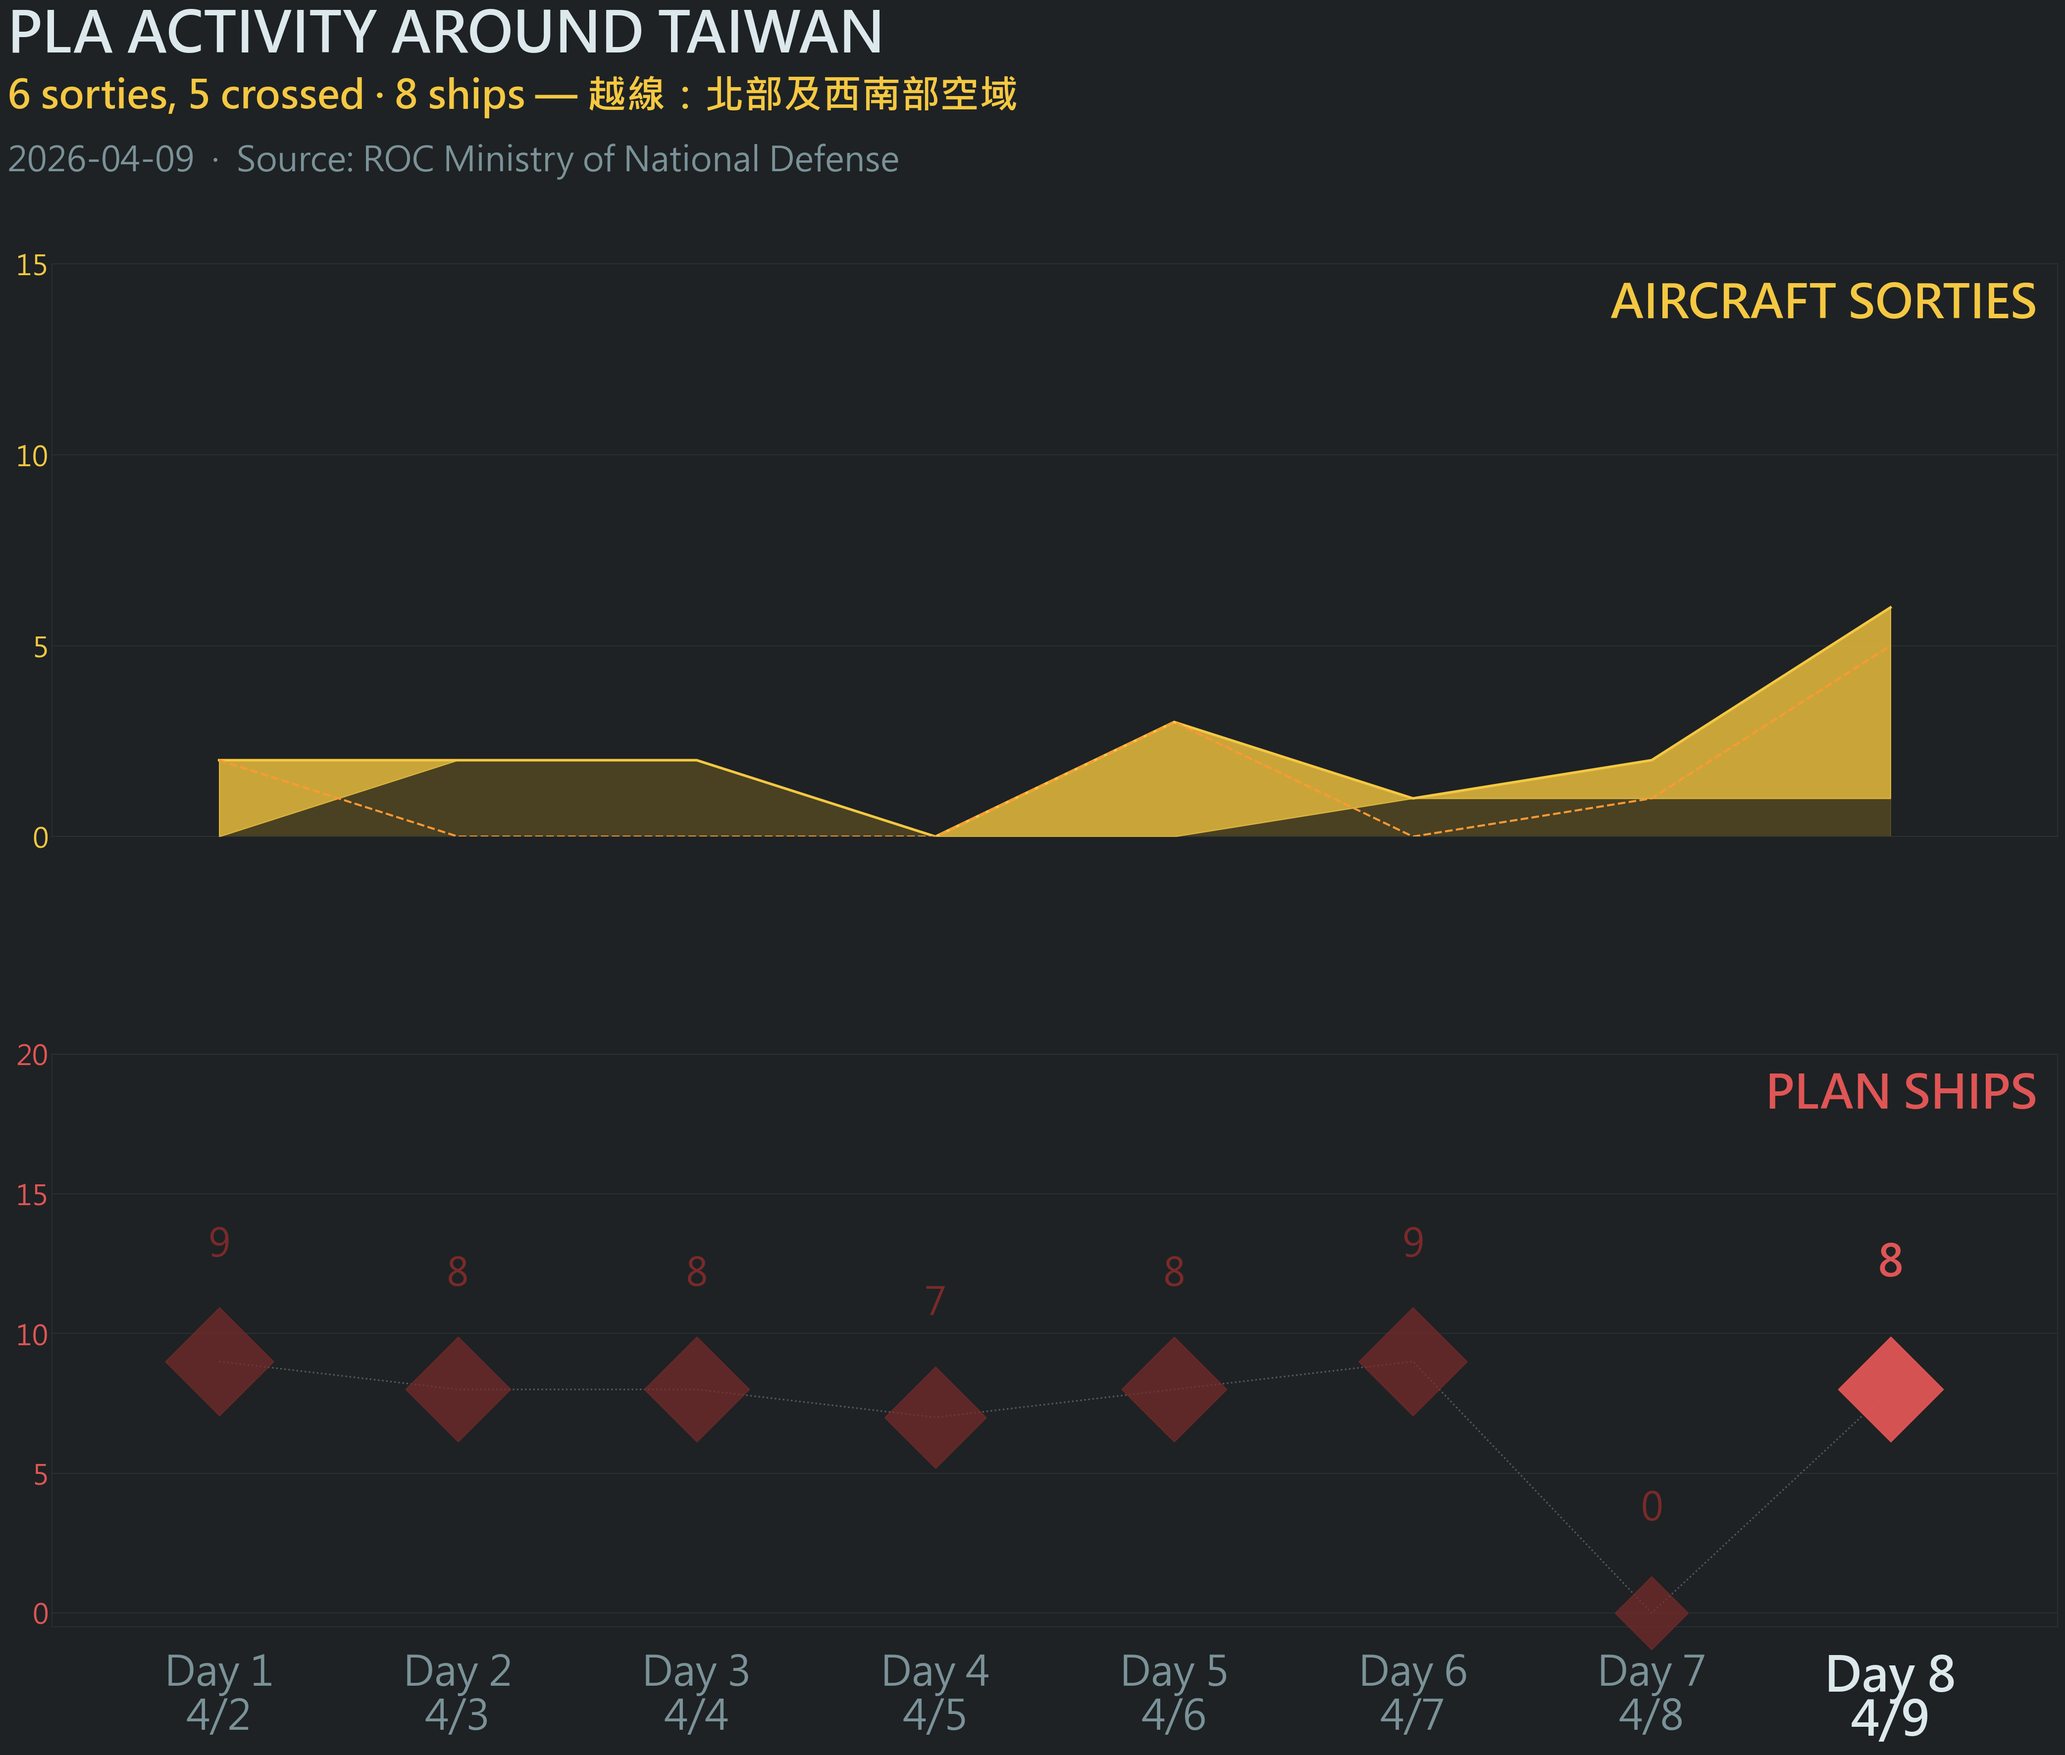
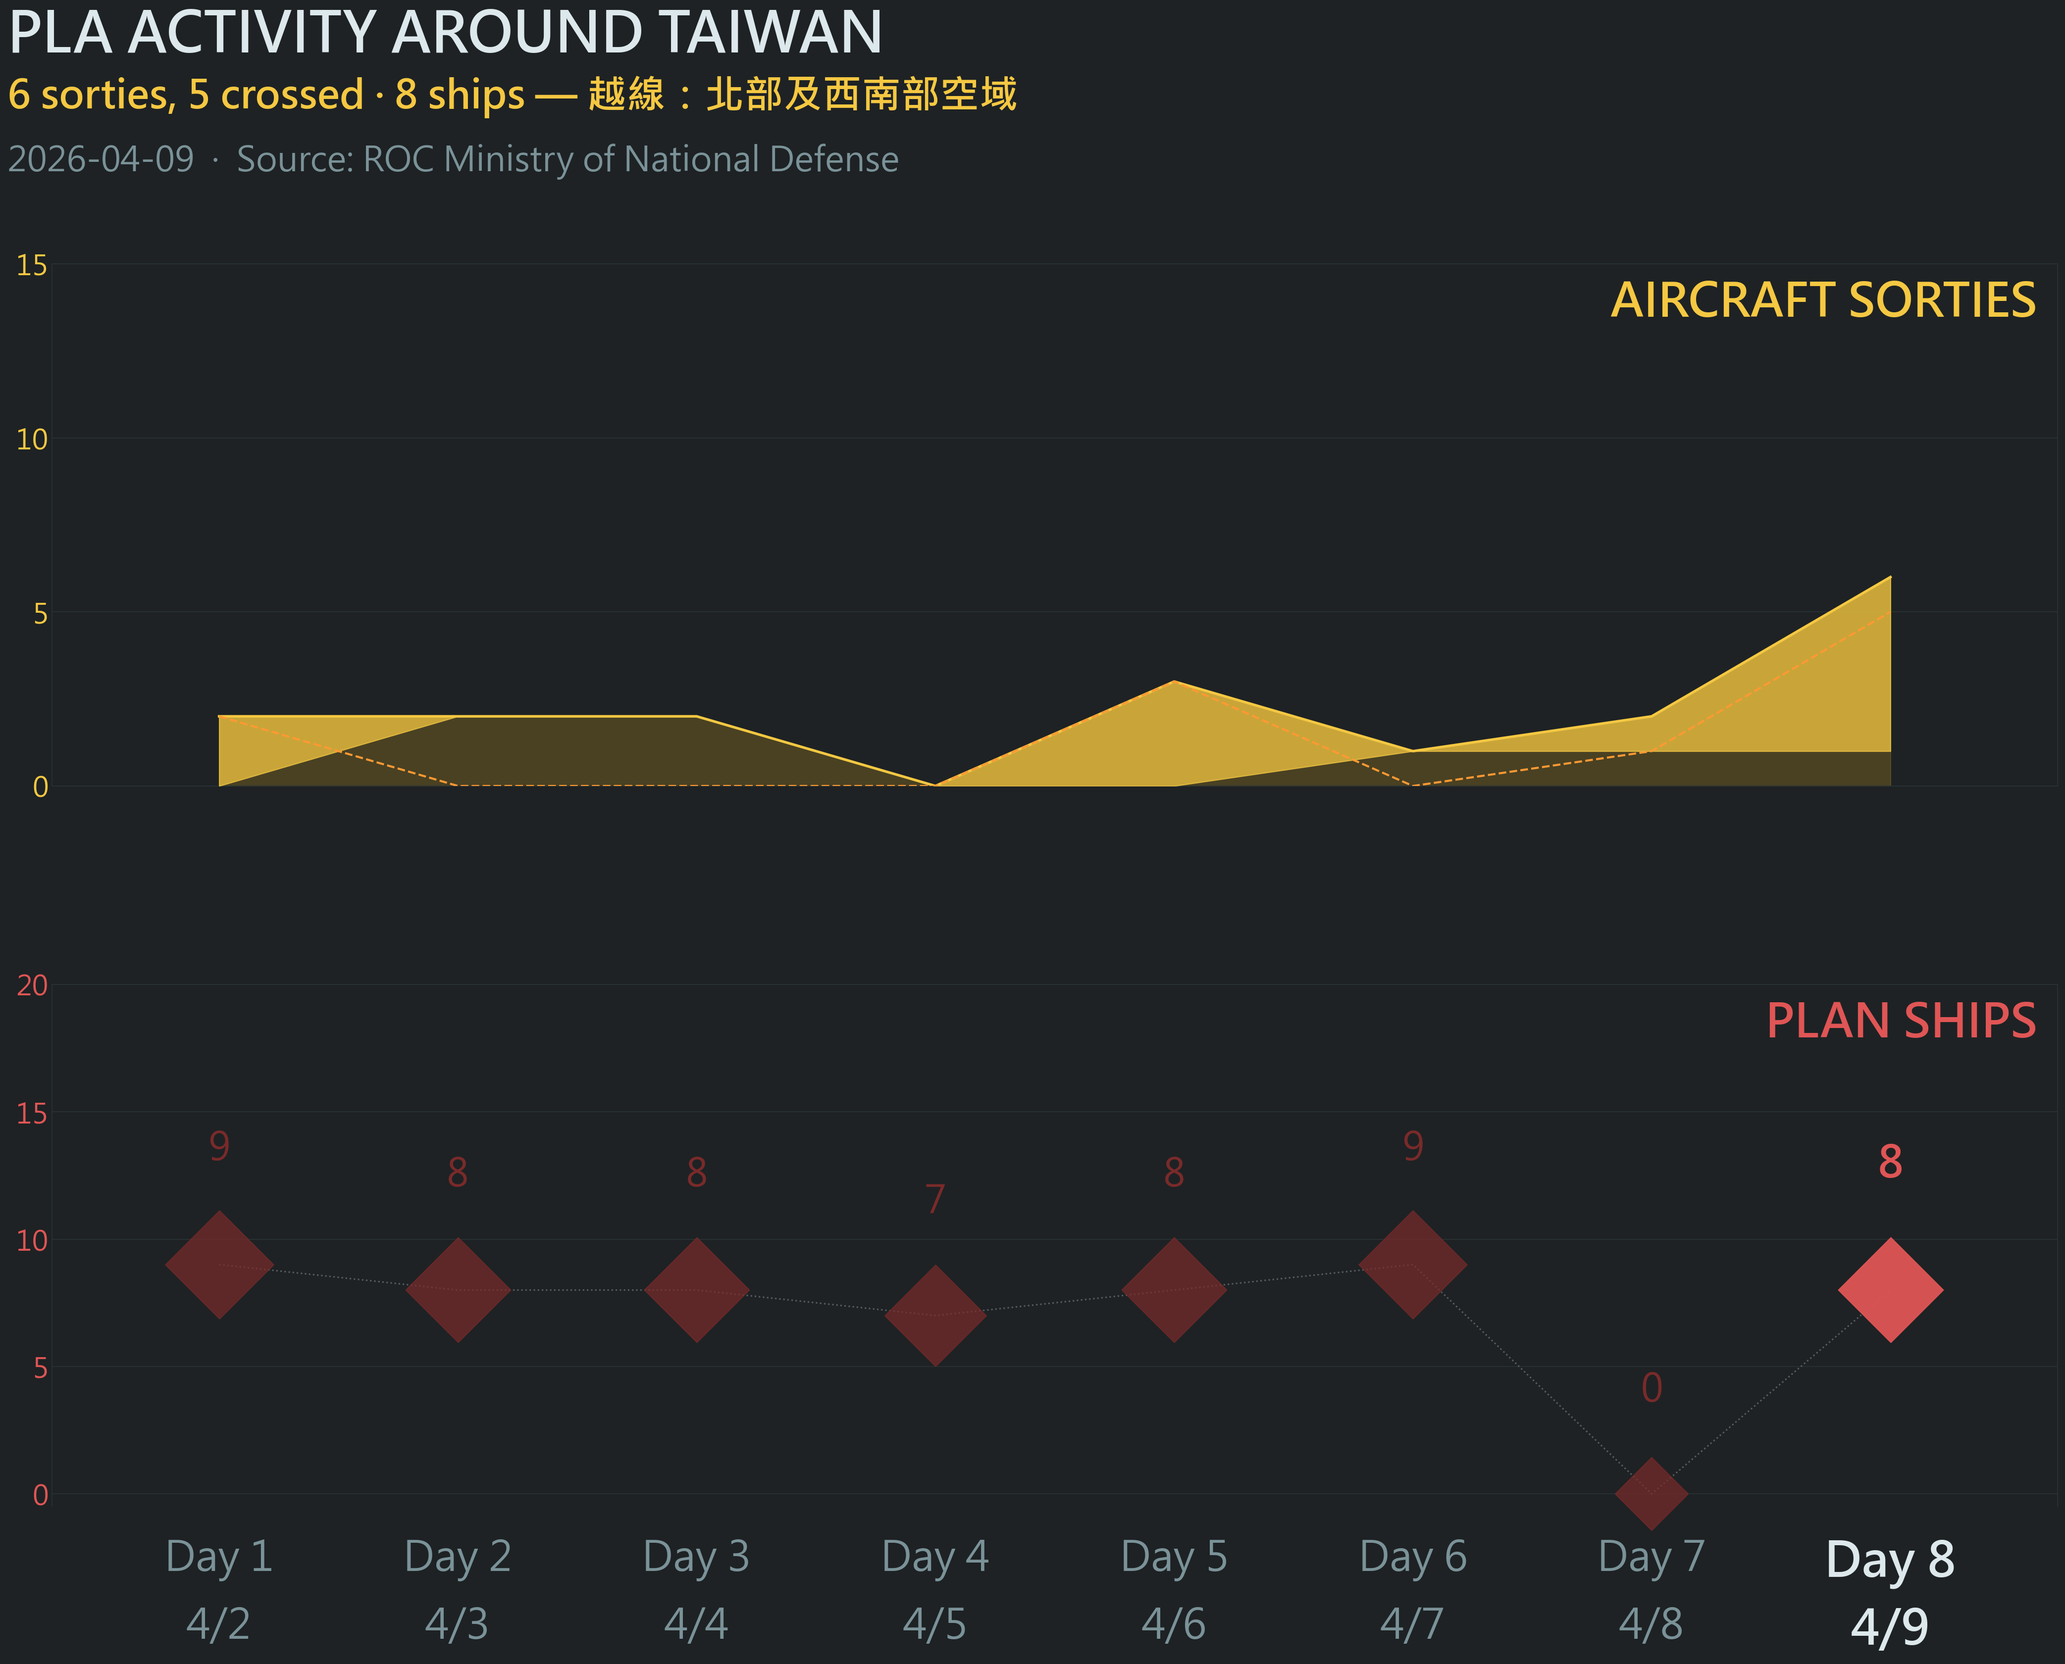
fix: streak right-align labels, adaptive yticks, larger title; split panel Day/date spacing, no double line

diff --git a/scripts/chart_daily.py b/scripts/chart_daily.py
@@ -90,6 +90,16 @@ def ceil5(x):
     return int(np.ceil(max(x, 1) / 5) * 5)
 
 
+def _ystep(top):
+    if top <= 10:   return 2
+    elif top <= 30: return 5
+    else:           return 10
+
+
+def _ceil_s(x, s):
+    return int(np.ceil(max(x, s) / s) * s)
+
+
 def make_obs_text(row):
     """auto-generate observation sentence"""
     sorties = int(row['aircraft_total']) if pd.notna(row['aircraft_total']) else 0
@@ -148,20 +158,11 @@ def make_split_panel_chart(df, today_date=None, obs_text=None, out_path=None):
     date_labels = [f"{pd.to_datetime(r['date']).month}/{pd.to_datetime(r['date']).day}"
                    for _, r in df_plot.iterrows()]
 
-    # ── 自適應 y 軸刻度 ──
-    def _ystep(top):
-        if top <= 10:   return 2
-        elif top <= 30: return 5
-        else:           return 10
-
-    def _ceil_s(x, s):
-        return int(np.ceil(max(x, s) / s) * s)
-
     # ── 圖形建立（去掉 ylabel 後 left 縮小）──
     fig = plt.figure(figsize=(30, 27), facecolor=BG)
     gs  = gridspec.GridSpec(2, 1,
                             left=0.06, right=0.96,
-                            top=0.84,  bottom=0.16,
+                            top=0.84,  bottom=0.22,
                             hspace=0.38)
     ax_ac = fig.add_subplot(gs[0])
     ax_sh = fig.add_subplot(gs[1])
@@ -200,9 +201,10 @@ def make_split_panel_chart(df, today_date=None, obs_text=None, out_path=None):
     ylim_sh_raw = max(sh_max * 2.2, sh_max + 5, 5)
     step_sh     = _ystep(ylim_sh_raw)
     ylim_sh_top = _ceil_s(ylim_sh_raw, step_sh)
-    ax_sh.set_ylim(-0.5, ylim_sh_top)   # -0.5 讓 y=0 的菱形不貼軸（修改4）
+    ax_sh.set_ylim(-0.5, ylim_sh_top)   # -0.5 讓 y=0 的菱形不貼軸
     ax_sh.set_yticks(range(0, ylim_sh_top + 1, step_sh))
     ax_sh.tick_params(axis='y', colors=SH_BRIGHT, labelsize=27)
+    ax_sh.spines['bottom'].set_visible(False)  # 隱藏底部 spine，避免與 y=0 grid 重疊
 
     # connector dotted line
     ax_sh.plot(xs, sh_vals.tolist(), ':', color='#555c62', linewidth=1.5, zorder=2)
@@ -242,11 +244,10 @@ def make_split_panel_chart(df, today_date=None, obs_text=None, out_path=None):
         fc  = TXTDARK if is_today else TXTSUB
         fw  = 'bold' if is_today else 'normal'
 
-        fig.text(xf, yf - 0.020, f'Day {i + 1}',
+        fig.text(xf, yf - 0.022, f'Day {i + 1}',
                  ha='center', va='top',
                  color=fc, fontsize=fs, fontweight=fw, fontfamily=FONT)
-        # 修改5：兩行間距縮小 0.040→0.022
-        fig.text(xf, yf - 0.020 - 0.022, date_labels[i],
+        fig.text(xf, yf - 0.022 - 0.034, date_labels[i],
                  ha='center', va='top',
                  color=fc, fontsize=fs, fontweight=fw, fontfamily=FONT)
 
@@ -369,9 +370,11 @@ def make_streak_chart(df, today_date=None, obs_text=None, out_path=None):
         ax.set_xlim(-0.5, n - 0.5)
 
     # ── 上面板：飛機面積圖 ──
-    ylim_ac = max(ac_max * 1.45, 5)
+    ylim_ac_raw = max(ac_max * 1.45, 5)
+    step_ac     = _ystep(ylim_ac_raw)
+    ylim_ac     = _ceil_s(ylim_ac_raw, step_ac)
     ax_ac.set_ylim(0, ylim_ac)
-    ax_ac.set_yticks(range(0, ceil5(ylim_ac) + 1, 5))
+    ax_ac.set_yticks(range(0, ylim_ac + 1, step_ac))
     ax_ac.tick_params(axis='y', colors=AC_BRIGHT, labelsize=22)
     ax_ac.tick_params(axis='x', bottom=False, labelbottom=False)
 
@@ -418,14 +421,16 @@ def make_streak_chart(df, today_date=None, obs_text=None, out_path=None):
         if pd.to_datetime(dates[i]).month != pd.to_datetime(dates[i - 1]).month:
             ax_ac.axvline(i - 0.5, color='#2a3a42', linewidth=1.2, zorder=1)
 
-    ax_ac.text(0.01, 0.97, 'AIRCRAFT SORTIES',
-               transform=ax_ac.transAxes, ha='left', va='top',
+    ax_ac.text(0.99, 0.97, 'AIRCRAFT SORTIES',
+               transform=ax_ac.transAxes, ha='right', va='top',
                color=AC_BRIGHT, fontsize=38, fontweight='bold', fontfamily=FONT)
 
     # ── 下面板：艦艇 ──
-    ylim_sh = max(sh_max * 1.8, sh_max + 5, 5)
-    ax_sh.set_ylim(0, ylim_sh)
-    ax_sh.set_yticks(range(0, ceil5(ylim_sh) + 1, 5))
+    ylim_sh_raw2 = max(sh_max * 1.8, sh_max + 5, 5)
+    step_sh2     = _ystep(ylim_sh_raw2)
+    ylim_sh2     = _ceil_s(ylim_sh_raw2, step_sh2)
+    ax_sh.set_ylim(0, ylim_sh2)
+    ax_sh.set_yticks(range(0, ylim_sh2 + 1, step_sh2))
     ax_sh.tick_params(axis='y', colors=SH_BRIGHT, labelsize=22)
 
     # silence 區間底色（同飛機面板）
@@ -491,8 +496,8 @@ def make_streak_chart(df, today_date=None, obs_text=None, out_path=None):
                    fontsize=fs, fontweight=fw, fontfamily=FONT, clip_on=False)
         last_label_y[i] = y_used
 
-    ax_sh.text(0.01, 0.97, 'PLAN SHIPS',
-               transform=ax_sh.transAxes, ha='left', va='top',
+    ax_sh.text(0.99, 0.97, 'PLAN SHIPS',
+               transform=ax_sh.transAxes, ha='right', va='top',
                color=SH_BRIGHT, fontsize=38, fontweight='bold', fontfamily=FONT)
 
     # ── X 軸：選擇性顯示，今日 bold ──
@@ -509,7 +514,7 @@ def make_streak_chart(df, today_date=None, obs_text=None, out_path=None):
     # ── 標題區（只保留 PLA 標題行）──
     fig.text(0.04, 0.964, 'PLA ACTIVITY AROUND TAIWAN — 2026 YTD',
              ha='left', va='top', color=TXTDARK,
-             fontsize=50, fontweight='bold', fontfamily=FONT)
+             fontsize=54, fontweight='bold', fontfamily=FONT)
 
     if out_path is None:
         out_path = OUTPUT_DIR / f"streak_{today_date}.png"
